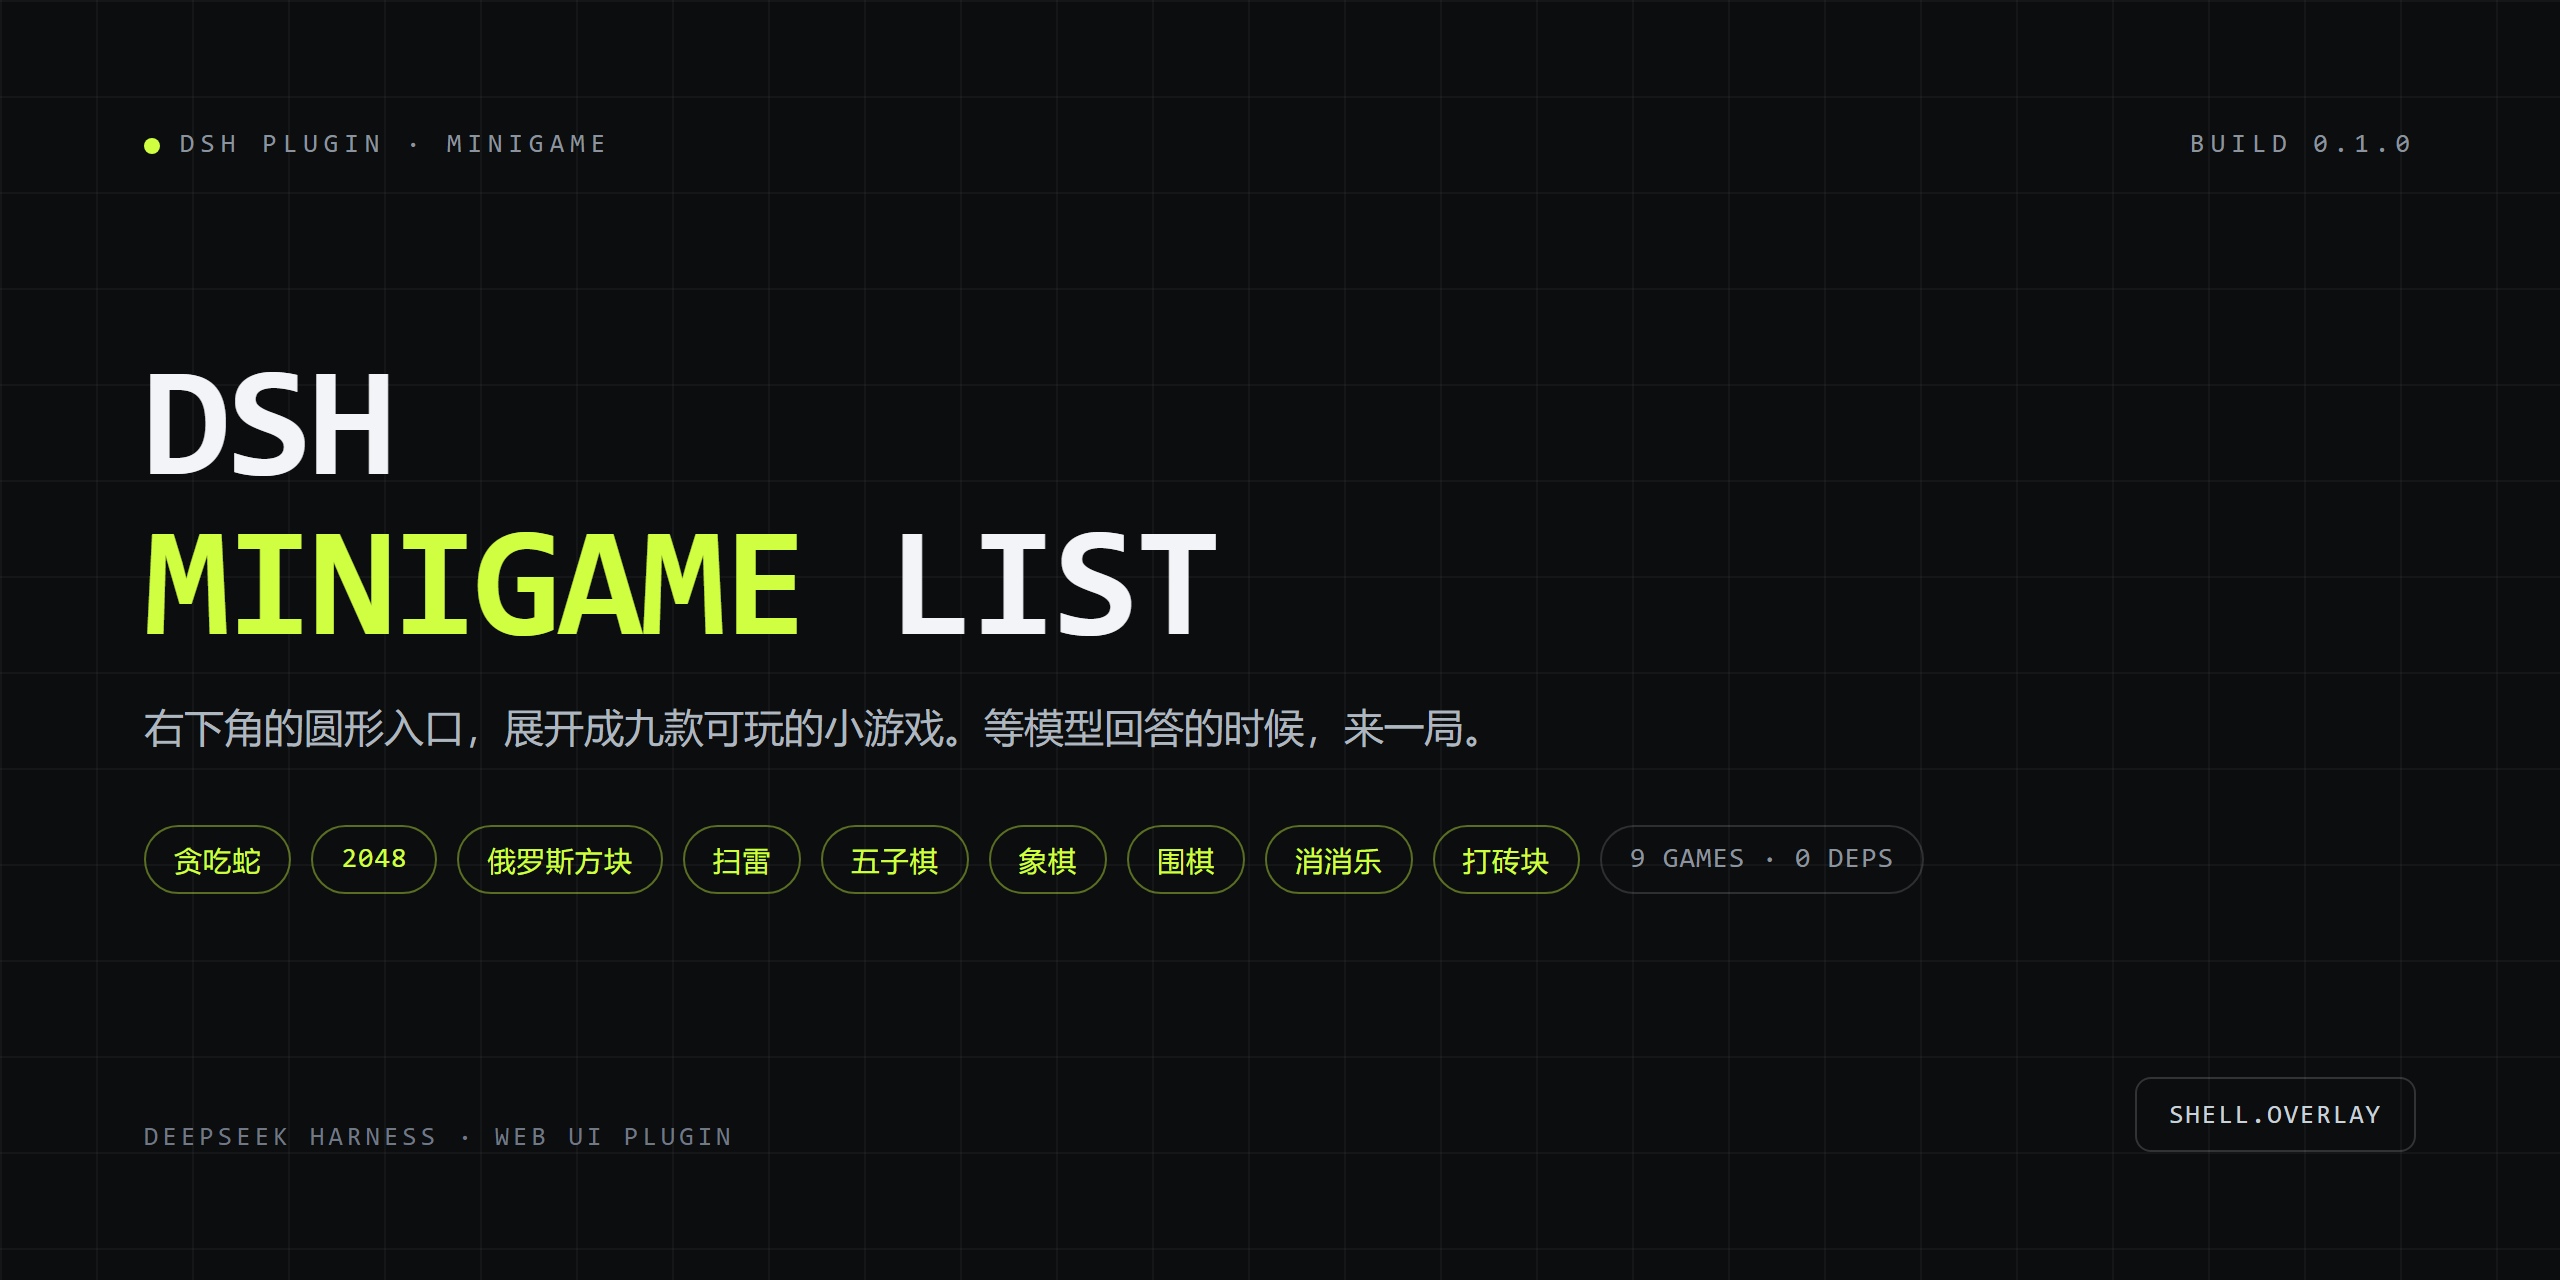
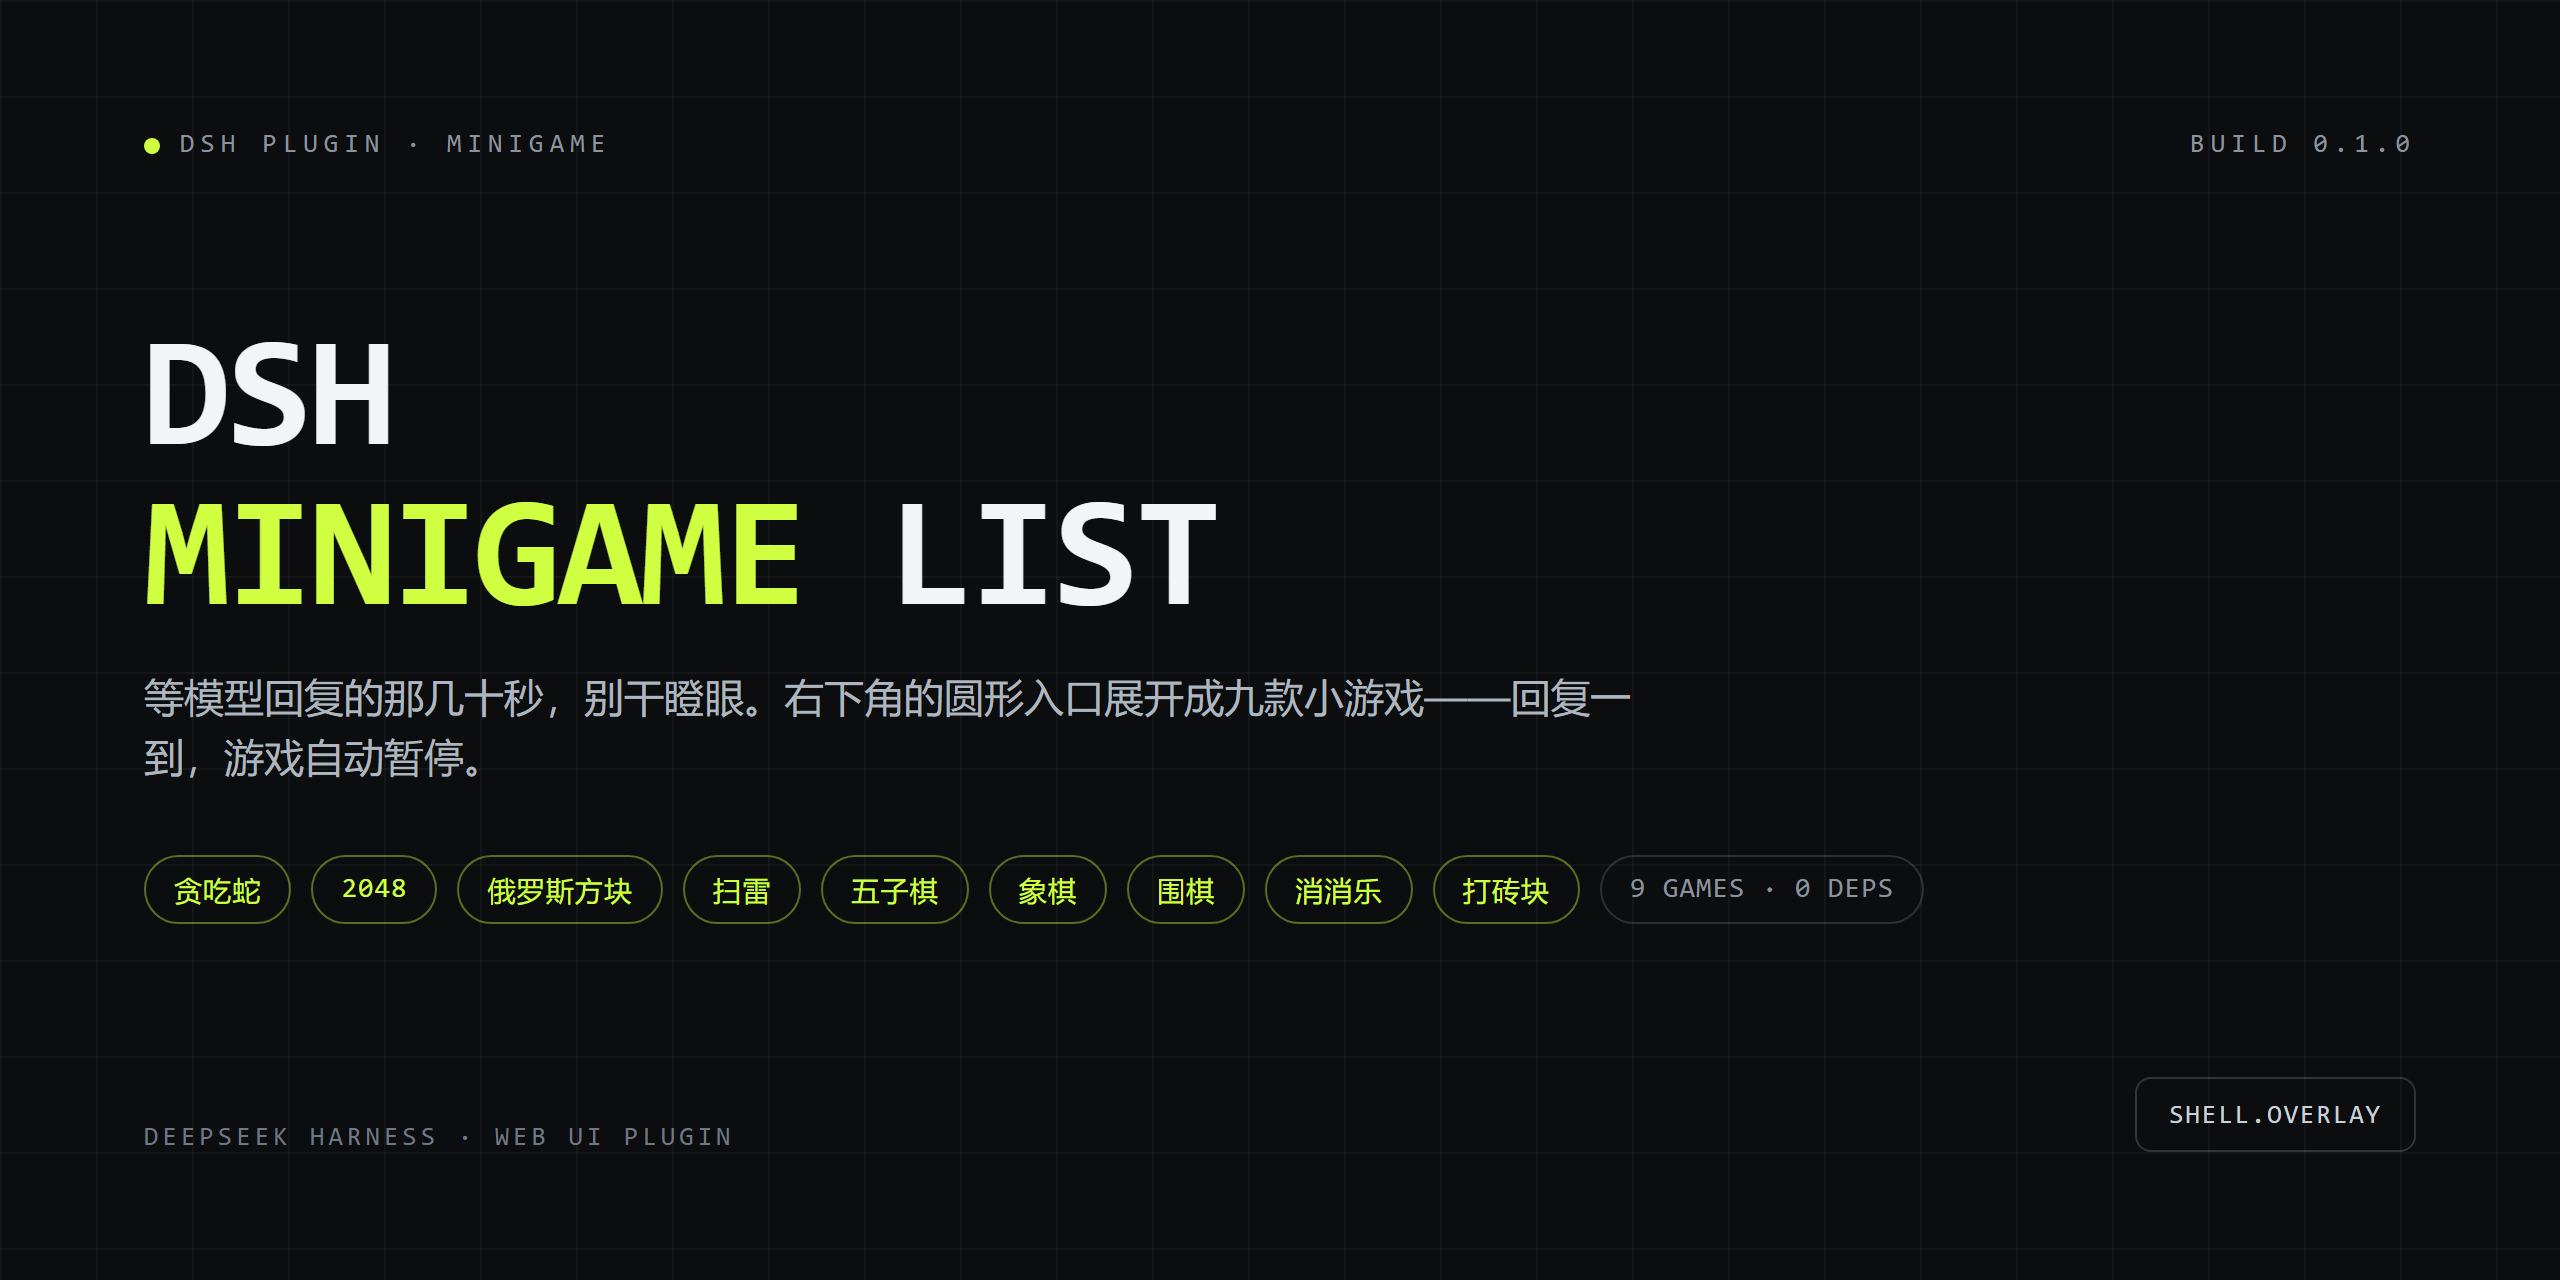
docs: lead with the wait-time story in README and hero

diff --git a/README.md b/README.md
@@ -1,6 +1,8 @@
 # DSH 小游戏面板 · dsh-minigame-list
 
-> 右下角的小游戏入口 —— 等模型回答的时候，来一局。
+> 等模型回复的那几十秒，别干瞪眼。
+
+和模型对话时，等待回复的时间通常很枯燥：消息发出去了，光标在转，你只能盯着屏幕。这个插件在 Harness 右下角放了一个小游戏入口——等回复的时候来一局，回复到了就自动暂停，回来接着玩。
 
 ![hero](assets/hero.png)
 
